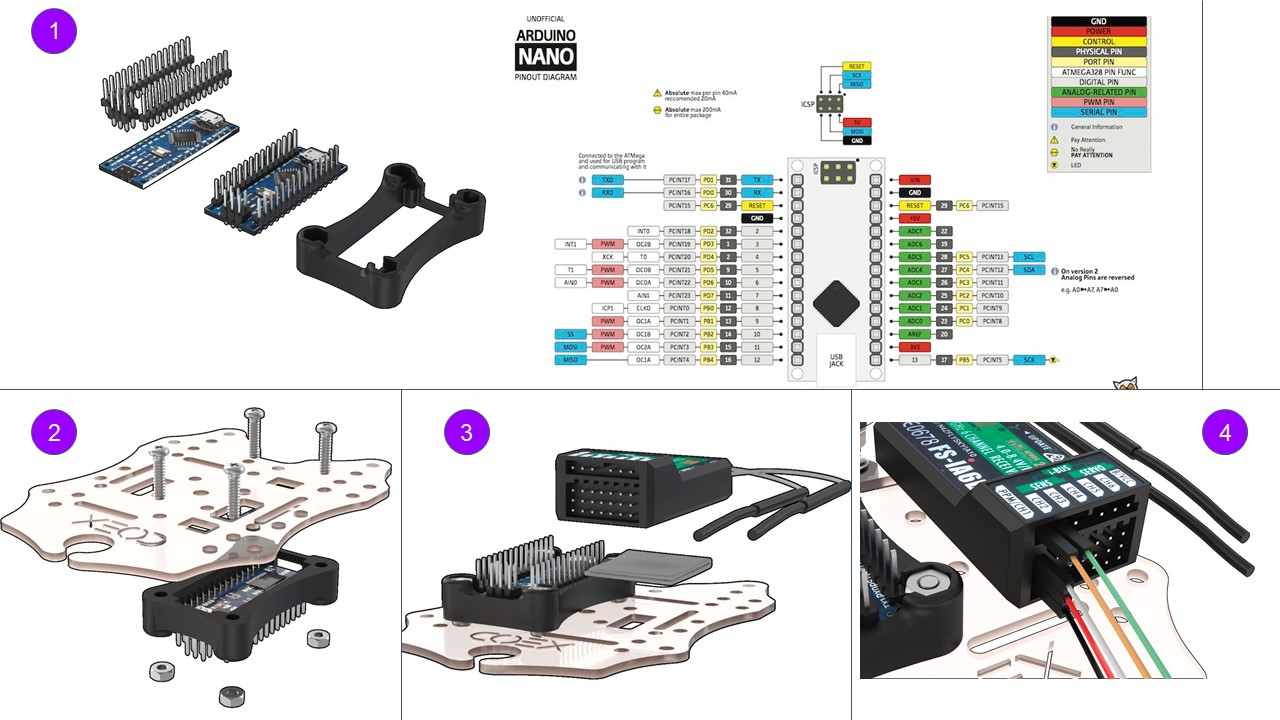
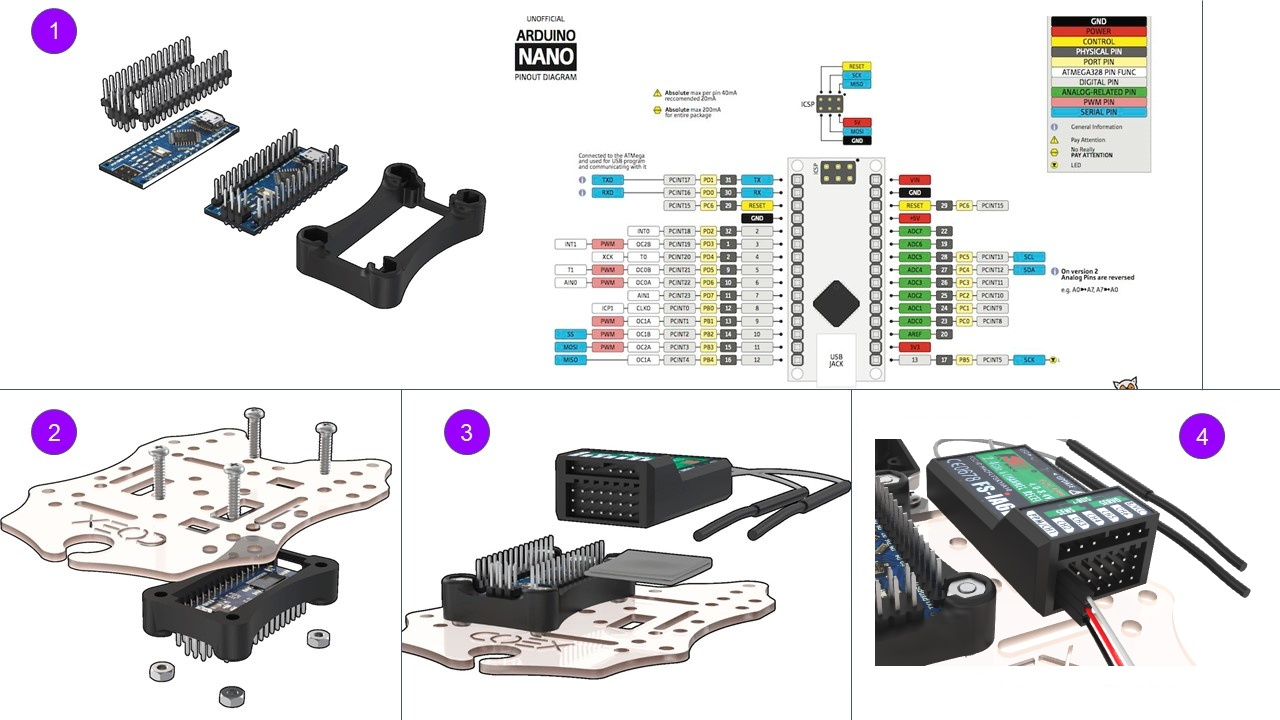
Edit instruction about the connection of pixracer and RC

Changed region(s): [[0.6562, 0.55, 1.0, 0.9472]]

diff --git a/docs/ru/assemble_3.md b/docs/ru/assemble_3.md
@@ -221,7 +221,7 @@ TODO
         белый -> PPM
         красный -> 5V
         черный -> GND
-        оранжевый, зеленый -> сейчас не используются. Устанавливаются в неиспользуемые пины радиоприемника
+        оранжевый, зеленый -> не используются. Выньте эти провода из разъёма или обрежьте их.
 
 ![Монтаж Arduino nano и радиоприемника Flysky i6](../assets/cl3_mountArduinoandFlysky.JPG)
 
